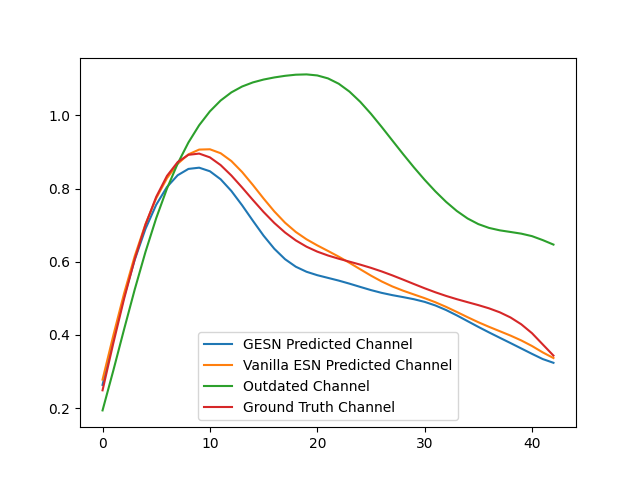
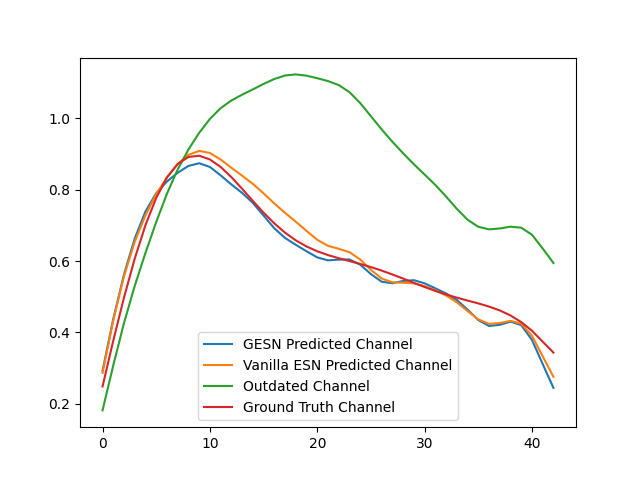
MASS version

diff --git a/dmimo/mu_mimo_gesn_mass.py b/dmimo/mu_mimo_gesn_mass.py
@@ -4,7 +4,7 @@ from tensorflow.python.keras import Model
 import matplotlib.pyplot as plt
 import time
 
-from sionna.ofdm import ResourceGrid, ResourceGridMapper, LSChannelEstimator, LMMSEEqualizer
+from sionna.ofdm import ResourceGrid, ResourceGridMapper, LSChannelEstimator, LMMSEEqualizer, RemoveNulledSubcarriers
 from sionna.mimo import StreamManagement
 
 from sionna.fec.ldpc.encoding import LDPC5GEncoder
@@ -14,6 +14,8 @@ from sionna.fec.interleaving import RowColumnInterleaver, Deinterleaver
 from sionna.mapping import Mapper, Demapper
 from sionna.utils import BinarySource
 from sionna.utils.metrics import compute_ber, compute_bler
+from sionna.channel import ApplyOFDMChannel
+from sionna.utils import expand_to_rank, complex_normal, flatten_last_dims
 
 from dmimo.config import Ns3Config, SimConfig, NetworkConfig, RCConfig
 from dmimo.channel import dMIMOChannels, lmmse_channel_estimation, standard_rc_pred_freq_mimo, gesn_pred_freq_dmimo
@@ -48,17 +50,11 @@ class MU_MIMO(Model):
         self.num_streams_per_tx = cfg.num_tx_streams
 
         self.num_txs_ant = 2 * cfg.num_tx_ue_sel + 4  # gNB always present with 4 antennas
-        self.num_ue_ant = 2  # assuming 2 antennas per UE for reshaping data/channels
-        if cfg.ue_indices is None:
-            # no rank/link adaptation
-            self.num_rxs_ant = self.num_streams_per_tx
-            self.num_rx_ue = self.num_rxs_ant // self.num_ue_ant
-        else:
-            # rank adaptation support
-            self.num_rxs_ant = cfg.ue_indices.shape[0]
-            self.num_rx_ue = self.num_rxs_ant
-            if cfg.ue_ranks is None:
-                cfg.ue_ranks = 1  # no rank adaptation
+        self.num_ue_ant = 1  # assuming 2 antennas per UE for reshaping data/channels
+        self.num_rxs_ant = cfg.ue_indices.shape[0] // self.num_ue_ant
+        self.num_rx_ue = self.num_rxs_ant
+        if cfg.ue_ranks is None:
+            cfg.ue_ranks = 1  # no rank adaptation
 
         self.num_streams_per_tx = cfg.num_tx_streams * self.num_rx_ue
         cfg.num_tx_streams = self.num_streams_per_tx
@@ -67,7 +63,7 @@ class MU_MIMO(Model):
 
         # Create an RX-TX association matrix
         # rx_tx_association[i,j]=1 means that receiver i gets at least one stream from transmitter j.
-        rx_tx_association = np.ones((self.num_rx_ue, 1))
+        rx_tx_association = np.ones((self.num_rx_ue, 1), dtype=int)
 
         # Instantiate a StreamManagement object
         # This determines which data streams are determined for which receiver.
@@ -145,6 +141,10 @@ class MU_MIMO(Model):
 
         # The decoder provides hard-decisions on the information bits
         self.decoder = LDPC5GDecoder(self.encoder, hard_out=True)
+
+        self.apply_channel = ApplyOFDMChannel(add_awgn=False, dtype=tf.as_dtype(tf.complex64))
+
+        self.removed_nulled_scs = RemoveNulledSubcarriers(self.rg)
 
     def call(self, dmimo_chans: dMIMOChannels, info_bits=None):
         """
@@ -260,58 +260,111 @@ class MU_MIMO(Model):
         # [batch_size, num_rx, num_rxs_ant, num_tx, num_txs_ant, num_ofdm_sym, fft_size]
         h_freq_csi_grad_descent = tf.transpose(h_freq_csi_grad_descent, perm=[0,1,3,2])
         h_freq_csi_grad_descent = h_freq_csi_grad_descent[tf.newaxis, tf.newaxis, :, tf.newaxis, :, :, :]
+        h_freq_csi_outdated = tf.transpose(h_freq_csi_outdated, perm=[0,1,3,2])
+        h_freq_csi_outdated = h_freq_csi_outdated[tf.newaxis, tf.newaxis, :, tf.newaxis, :, :, :]
+        h_freq_csi_outdated = tf.transpose(h_freq_csi_outdated, perm=[0, 2, 1, 3, 4, 5, 6])
 
         # [batch_size, num_rx_ue, num_ue_ant, num_tx, num_txs_ant, num_ofdm_sym, fft_size]
         h_freq_csi_grad_descent =tf.reshape(h_freq_csi_grad_descent, (-1, self.num_rx_ue, 1, *h_freq_csi_grad_descent.shape[3:]))
         h_freq_csi_vanilla =tf.reshape(h_freq_csi_vanilla, (-1, self.num_rx_ue, 1, *h_freq_csi_vanilla.shape[3:]))
-
-        h_freq_csi = h_freq_csi_grad_descent
-        h_freq_csi = tf.repeat(h_freq_csi, repeats=12, axis=-1)
-        h_freq_csi = h_freq_csi[..., :512]
         
-        # apply precoding to OFDM grids
-        if self.cfg.precoding_method == "ZF":
-            ue_indices = [[i] for i in range(self.num_rx_ue)]
-            ue_ranks = self.cfg.num_tx_streams / self.num_rx_ue
-            x_precoded, g = self.zf_precoder([x_rg, h_freq_csi, ue_indices, ue_ranks])
-        else:
-            ValueError("unsupported precoding method for MASS")
+        SNR_range = np.arange(0, 20, 2)
+        uncoded_bers = np.zeros((3, np.arange(0, 20, 2).shape[0]))
+        
+        for snr_idx, snr in enumerate(SNR_range):
+            
+            rx_snr_db = snr
 
-        # apply dMIMO channels to the resource grid in the frequency domain.
-        y = dmimo_chans([x_precoded, self.cfg.first_slot_idx]) # Shape: [nbatches, num_rxs_antennas/2, 2, number of OFDM symbols, number of total subcarriers]
+            for curr_method in range(3):
 
-        # make proper shape
-        y = tf.gather(y, tf.range(0, y.shape[2], 2), axis=2)
-        y = tf.reshape(y, (self.batch_size, self.num_rx_ue, 1, 14, -1))
+                if curr_method == 0:
+                    h_freq_csi = h_freq_csi_outdated
+                elif curr_method == 1:
+                    h_freq_csi = h_freq_csi_vanilla
+                elif curr_method == 2:
+                    h_freq_csi = h_freq_csi_grad_descent
+                
+                h_freq_csi = tf.repeat(h_freq_csi, repeats=12, axis=-1)
+                h_freq_csi = h_freq_csi[..., :512]
 
-        # LS channel estimation with linear interpolation
-        no = 0.1  # initial noise estimation (tunable param)
-        h_hat, err_var = self.ls_estimator([y, no])
+                # apply precoding to OFDM grids
+                if self.cfg.precoding_method == "ZF":
+                    ue_indices = [[i] for i in range(self.num_rx_ue)]
+                    ue_ranks = self.cfg.num_tx_streams / self.num_rx_ue
+                    # x_precoded, h_eff = self.zf_precoder([x_rg, h_freq_csi, ue_indices, ue_ranks])
+                else:
+                    ValueError("unsupported precoding method for MASS")
 
-        # LMMSE equalization
-        x_hat, no_eff = self.lmmse_equ([y, h_hat, err_var, no]) # Shape: [nbatches, 1, number of streams, number of effective subcarriers * number of data OFDM symbols]
+                # apply dMIMO channels to the resource grid in the frequency domain.
+                h_freq, _ = dmimo_chans.load_channel(slot_idx=self.cfg.first_slot_idx,
+                                                                    batch_size=self.batch_size)
+                # rx_snr_db = tf.gather(rx_snr_db, tf.range(0, rx_snr_db.shape[2], 2), axis=2)
+                h_freq = tf.gather(h_freq, tf.range(0, h_freq.shape[2], 2), axis=2)
+                
+                # x_precoded, h_eff = self.zf_precoder([x_rg, tf.transpose(h_freq, perm=[0, 2, 1, 3, 4, 5, 6]), ue_indices, ue_ranks])
+                x_precoded, h_eff = self.zf_precoder([x_rg, h_freq_csi, ue_indices, ue_ranks])
+                
+                debug = False
+                if debug:
+                    # h_freq[0,:,:,tf.newaxis, ...]
+                    plt.figure()
+                    debug_rx_ant = 3
+                    debug_tx_ant = 1
+                    debug_ofdm_sym = 10
+                    plt.plot(np.real(h_freq[0,0,debug_rx_ant,0,debug_tx_ant,debug_ofdm_sym,:]))
+                    plt.plot(np.real(h_freq_csi_history[-1,0,0,debug_rx_ant,0,debug_tx_ant,debug_ofdm_sym,:]))
+                    plt.savefig('a')
+                debug = False
+                # y = dmimo_chans([x_precoded, self.cfg.first_slot_idx]) # Shape: [nbatches, num_rxs_antennas/2, 2, number of OFDM symbols, number of total subcarriers]
+                # # make proper shape
+                # y = tf.gather(y, tf.range(0, y.shape[2], 2), axis=2)
+                # y = tf.reshape(y, (self.batch_size, self.num_rx_ue, 1, 14, -1))
+                y = self.apply_channel([x_precoded, h_freq])
+                no = np.power(10.0, rx_snr_db / (-10.0))
+                y = self.awgn([y, no])
 
-        # Soft-output QAM demapper
-        llr = self.demapper([x_hat, no_eff])
+                # LS channel estimation with linear interpolation
+                no = tf.reduce_mean(no)
+                no = tf.cast(no, tf.float32)
+                h_hat, err_var = self.ls_estimator([y, no])
 
-        # Hard-decision bit error rate
-        d_hard = tf.cast(llr > 0, tf.float32) # Shape: [nbatches, 1, number of streams, number of effective subcarriers * number of data OFDM symbols * QAM order]
-        uncoded_ber = compute_ber(d, d_hard).numpy()
+                x_hat = np.zeros(x_rg.shape, dtype=np.complex64)
+                x_hat = x_hat[..., :self.rg.num_effective_subcarriers]
+                for rx_node in range(self.num_rx_ue):
+                    curr_y = tf.gather(y, rx_node, axis=2)
+                    curr_y = tf.gather(curr_y, self.rg.effective_subcarrier_ind, axis=-1)
+                    curr_y = tf.squeeze(curr_y)
 
-        # Hard-decision symbol error rate
-        llr = tf.reshape(llr, [self.batch_size, 1, self.rg.num_streams_per_tx, self.num_codewords, self.encoder.n])
+                    curr_h = tf.gather(h_hat, rx_node, axis=2)
+                    curr_h = tf.squeeze(curr_h)
+                    curr_h = tf.gather(curr_h, rx_node, axis=1)
 
-        # LDPC hard-decision decoding
-        dec_bits = self.decoder(llr) # Shape: [nbatches, 1, number of streams, 1, number of effective subcarriers * number of data OFDM symbols * QAM order * code rate]
+                    curr_x_hat = curr_y / curr_h
+                    curr_x_hat = curr_x_hat[:, np.newaxis, ...]
+                    curr_x_hat = np.asarray(curr_x_hat)
 
-        return [pred_nmse_esn, pred_nmse_wesn, pred_nmse_gesn_per_antenna_pair, pred_nmse_wgesn_per_antenna_pair], dec_bits, uncoded_ber, uncoded_ser, node_wise_uncoded_ser, x_hat
-        x_hard = self.mapper(d_hard)
-        uncoded_ser = np.count_nonzero(x - x_hard) / np.prod(x.shape)
-        num_tx_streams_per_node = int(self.cfg.num_tx_streams/(self.cfg.num_rx_ue_sel+2))
-        node_wise_uncoded_ser = compute_UE_wise_SER(x ,x_hard, num_tx_streams_per_node, self.cfg.num_tx_streams)
+                    x_hat[:,:,rx_node,:,:] = curr_x_hat
+                
+                all_symbols = tf.range(self.rg.num_ofdm_symbols)
+                pilot_symbols = self.rg._pilot_ofdm_symbol_indices
 
-        # LLR deinterleaver for LDPC decoding
-        llr = self.dintlvr(llr)
+                # Get the set difference: symbols not used for pilots
+                data_symbol_indices = tf.sets.difference(
+                    tf.expand_dims(all_symbols, 0), tf.expand_dims(pilot_symbols, 0)
+                ).values
+                x_hat = x_hat[:,:,:,data_symbol_indices ,:]
+                x_hat = tf.reshape(x_hat, (x_hat.shape[0], x_hat.shape[1], x_hat.shape[2], x_hat.shape[3] * x_hat.shape[4]))
+                x_hat = tf.convert_to_tensor(x_hat)
+
+                # Soft-output QAM demapper
+                llr = self.demapper([x_hat, no])
+
+                # Hard-decision bit error rate
+                d_hard = tf.cast(llr > 0, tf.float32) # Shape: [nbatches, 1, number of streams, number of effective subcarriers * number of data OFDM symbols * QAM order]
+                uncoded_bers[curr_method, snr_idx] = compute_ber(d, d_hard).numpy()
+
+        return [pred_nmse_outdated, pred_nmse_wesn, pred_nmse_wgesn_per_antenna_pair], uncoded_bers, x_hat
+    
 
     def nmse(self, H_true, H_pred, standard=True):
         # Promote both inputs to the same backend first
@@ -333,6 +386,23 @@ class MU_MIMO(Model):
         denom = backend.reduce_sum(denom_term) if backend is tf else backend.sum(denom_term)
         return backend.cast(num / denom, backend.float32 if backend is tf else backend.float64)
 
+    def awgn(self, inputs):
+
+        x, no = inputs
+
+        # Create tensors of real-valued Gaussian noise for each complex dim.
+        noise = complex_normal(tf.shape(x), dtype=x.dtype)
+
+        # Add extra dimensions for broadcasting
+        no = expand_to_rank(no, tf.rank(x), axis=-1)
+
+        # Apply variance scaling
+        noise *= tf.cast(tf.sqrt(no), noise.dtype)
+
+        # Add noise to input
+        y = x + noise
+
+        return y
 
 
 def sim_mu_mimo(cfg: SimConfig, rc_config:RCConfig):
@@ -362,9 +432,9 @@ def sim_mu_mimo(cfg: SimConfig, rc_config:RCConfig):
     info_bits = binary_source([cfg.num_slots_p2, mu_mimo.num_bits_per_frame])
 
     # MU-MIMO transmission (P2)
-    [pred_nmse_esn, pred_nmse_wesn, pred_nmse_gesn_per_antenna_pair, pred_nmse_wgesn_per_antenna_pair], dec_bits, uncoded_ber, uncoded_ser, node_wise_uncoded_ser, x_hat = mu_mimo(dmimo_chans, info_bits)
+    [pred_nmse_outdated, pred_nmse_wesn, pred_nmse_wgesn_per_antenna_pair], uncoded_bers, x_hat = mu_mimo(dmimo_chans, info_bits)
 
-    return pred_nmse_esn, pred_nmse_wesn, pred_nmse_gesn_per_antenna_pair, pred_nmse_wgesn_per_antenna_pair
+    return [pred_nmse_outdated, pred_nmse_wesn, pred_nmse_wgesn_per_antenna_pair], uncoded_bers
 
 
 def sim_mu_mimo_all(cfg: SimConfig, rc_config:RCConfig):
@@ -374,32 +444,29 @@ def sim_mu_mimo_all(cfg: SimConfig, rc_config:RCConfig):
 
     total_cycles = 0
     
-    pred_nmse_esn = []
+    pred_nmse_pred_nmse_outdated = []
     pred_nmse_wesn = []
-    pred_nmse_gesn_per_antenna_pair = []
     pred_nmse_wgesn_per_antenna_pair = []
+    
+    uncoded_ber_outdated = []
+    uncoded_ber_wesn = []
+    uncoded_ber_wgesn = []
+
     for first_slot_idx in np.arange(cfg.start_slot_idx, cfg.total_slots, cfg.num_slots_p1 + cfg.num_slots_p2):
 
         print("first_slot_idx: ", first_slot_idx, "\n")
 
         total_cycles += 1
         cfg.first_slot_idx = first_slot_idx
-        # try:
-        #     curr_pred_nmse_gesn, curr_pred_nmse_vanilla = sim_mu_mimo(cfg)
 
-        #     pred_nmse_gesn.append(curr_pred_nmse_gesn)
-        #     pred_nmse_vanilla.append(curr_pred_nmse_vanilla)
+        [curr_pred_nmse_outdated, curr_pred_nmse_wesn, curr_pred_nmse_wgesn_per_antenna_pair], curr_uncoded_bers = sim_mu_mimo(cfg, rc_config)
 
-        # except:
-        #     print("Continued \n")
-        #     continue
-
-        curr_pred_nmse_esn, curr_pred_nmse_wesn, curr_pred_nmse_gesn_per_antenna_pair, curr_pred_nmse_wgesn_per_antenna_pair = sim_mu_mimo(cfg, rc_config)
-
-        pred_nmse_esn.append(curr_pred_nmse_esn)
+        pred_nmse_pred_nmse_outdated.append(curr_pred_nmse_outdated)
         pred_nmse_wesn.append(curr_pred_nmse_wesn)
-        pred_nmse_gesn_per_antenna_pair.append(curr_pred_nmse_gesn_per_antenna_pair)
         pred_nmse_wgesn_per_antenna_pair.append(curr_pred_nmse_wgesn_per_antenna_pair)
 
+        uncoded_ber_outdated.append(curr_uncoded_bers[0])
+        uncoded_ber_wesn.append(curr_uncoded_bers[1])
+        uncoded_ber_wgesn.append(curr_uncoded_bers[2])
 
-    return pred_nmse_esn, pred_nmse_wesn, pred_nmse_gesn_per_antenna_pair, pred_nmse_wgesn_per_antenna_pair
+    return pred_nmse_pred_nmse_outdated, pred_nmse_wesn, pred_nmse_wgesn_per_antenna_pair, uncoded_ber_outdated, uncoded_ber_wesn, uncoded_ber_wgesn

diff --git a/sims/sim_mu_mimo_mass.py b/sims/sim_mu_mimo_mass.py
@@ -73,11 +73,11 @@ if __name__ == "__main__":
     cfg.csi_delay = 4           # feedback delay in number of subframe
     cfg.cfo_sigma = 0.0         # in Hz
     cfg.sto_sigma = 0.0         # in nanosecond
-    cfg.num_tx_ue_sel = 1
+    cfg.num_tx_ue_sel = 6
     if arguments == []:
         mobility = 'high_mobility'
         drop_idx = '2'
-        rx_ues_arr = [4]
+        rx_ues_arr = [10]
         vector_inputs = 'tx_ants' # tx_ants, rx_ants, none, all
     cfg.ns3_folder = "ns3/channels_" + mobility + '_' + drop_idx + '/'
     rc_config.lr = 0.01
@@ -92,6 +92,7 @@ if __name__ == "__main__":
     cfg.graph_formulation = 'per_antenna_pair' # "per_node_pair", "per_antenna_pair", "supergraph"
     cfg.rx_antenna_selection = 'MASS' # 'MASS': 1 rx antenna per node in RX Squad
     cfg.num_tx_streams = 1
+    cfg.modulation_order = 2
 
     folder_name = os.path.basename(os.path.abspath(cfg.ns3_folder))
     os.makedirs(os.path.join("results", folder_name), exist_ok=True)
@@ -125,12 +126,13 @@ if __name__ == "__main__":
         cfg.ue_indices = np.reshape(np.arange((cfg.num_rx_ue_sel + 2) * 2), (cfg.num_rx_ue_sel + 2, -1))
 
         cfg.precoding_method = "ZF"
-        pred_nmse_esn, pred_nmse_wesn, pred_nmse_gesn_per_antenna_pair, pred_nmse_wgesn_per_antenna_pair = sim_mu_mimo_all(cfg, rc_config)
+        pred_nmse_pred_nmse_outdated, pred_nmse_wesn, pred_nmse_wgesn_per_antenna_pair, uncoded_ber_outdated, uncoded_ber_wesn, uncoded_ber_wgesn = sim_mu_mimo_all(cfg, rc_config)
 
-        folder_path = "results/channels_multiple_mu_mimo_vector_inputs_{}/results_{}_epochs_{}_lr_{}_window_length_{}_weight_initialization_{}/{}".format(rc_config.vector_inputs, cfg.graph_formulation, 
+        folder_path = "results/mass/channels_multiple_mu_mimo_vector_inputs_{}/results_{}_epochs_{}_lr_{}_window_length_{}_weight_initialization_{}/{}".format(rc_config.vector_inputs, cfg.graph_formulation, 
                                                                     rc_config.num_epochs, rc_config.lr, rc_config.window_length, 
                                                                     rc_config.weight_initialization, folder_name)
         os.makedirs(folder_path, exist_ok=True)
-        np.savez("{}/mu_mimo_results_UE_{}_pred.npz".format(folder_path, rx_ues_arr[ue_arr_idx]),
-                pred_nmse_esn=pred_nmse_esn, pred_nmse_wesn=pred_nmse_wesn,
-                pred_nmse_gesn_per_antenna_pair=pred_nmse_gesn_per_antenna_pair, pred_nmse_wgesn_per_antenna_pair=pred_nmse_wgesn_per_antenna_pair)
+        np.savez("{}/mu_mimo_results_num_UEs_{}_pred.npz".format(folder_path, rx_ues_arr[ue_arr_idx]),
+                pred_nmse_pred_nmse_outdated=pred_nmse_pred_nmse_outdated, pred_nmse_wesn=pred_nmse_wesn,
+                pred_nmse_wgesn_per_antenna_pair=pred_nmse_wgesn_per_antenna_pair, uncoded_ber_outdated=uncoded_ber_outdated, 
+                uncoded_ber_wesn=uncoded_ber_wesn, uncoded_ber_wgesn=uncoded_ber_wgesn)

diff --git a/sims/sim_mu_mimo_chanpred.py b/sims/sim_mu_mimo_chanpred.py
@@ -36,8 +36,8 @@ if __name__ == "__main__":
 
     # Simulation settings
     cfg = SimConfig()
-    cfg.total_slots = 90        # total number of slots in ns-3 channels
-    cfg.start_slot_idx = 70     # starting slots (must be greater than csi_delay + 5)
+    cfg.total_slots = 70        # total number of slots in ns-3 channels
+    cfg.start_slot_idx = 50     # starting slots (must be greater than csi_delay + 5)
     cfg.csi_delay = 4           # feedback delay in number of subframe
     cfg.rank_adapt = False      # disable rank adaptation
     cfg.link_adapt = False      # disable link adaptation

diff --git a/dmimo/mimo/zf_precoding.py b/dmimo/mimo/zf_precoding.py
@@ -150,6 +150,8 @@ def mumimo_zf_precoder(x, h, ue_indices, ue_ranks, return_precoding_matrix=False
     norm = tf.sqrt(tf.reduce_sum(tf.abs(g)**2, axis=-2, keepdims=True))
     g = g/tf.cast(norm, g.dtype)
 
+    g = g / tf.cast(tf.sqrt(tf.reduce_sum(tf.abs(g)**2, axis=-2, keepdims=True)), g.dtype)
+
     # Expand last dim of `x` for precoding
     x_precoded = tf.expand_dims(x, -1)
 
